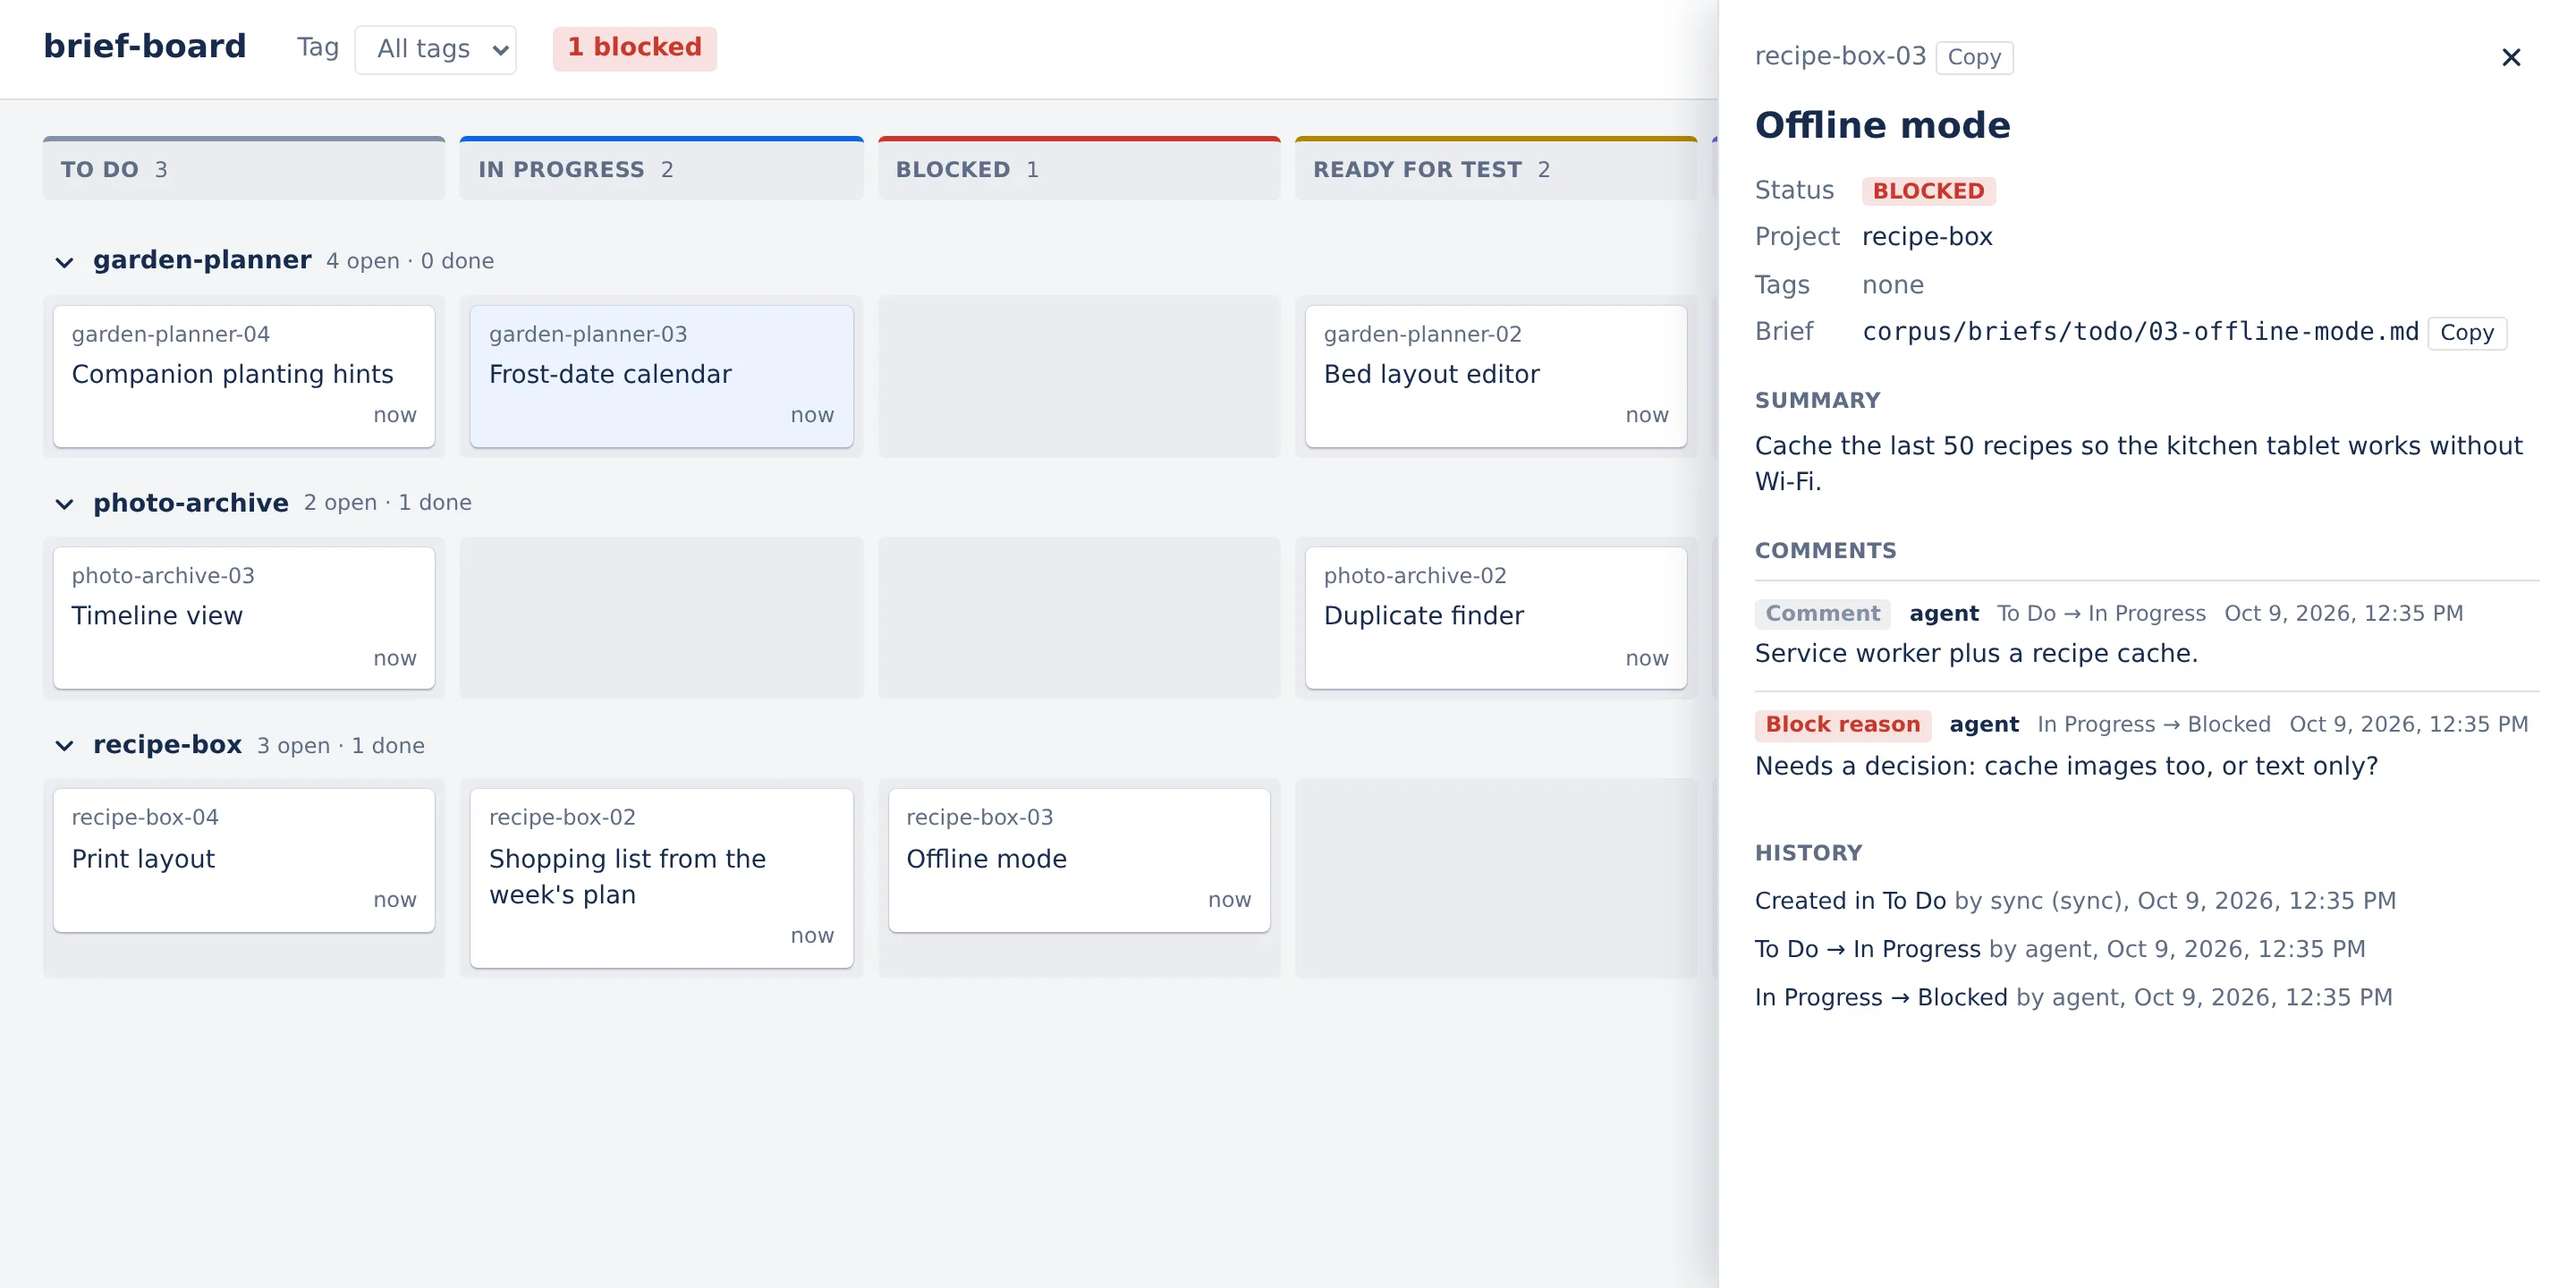
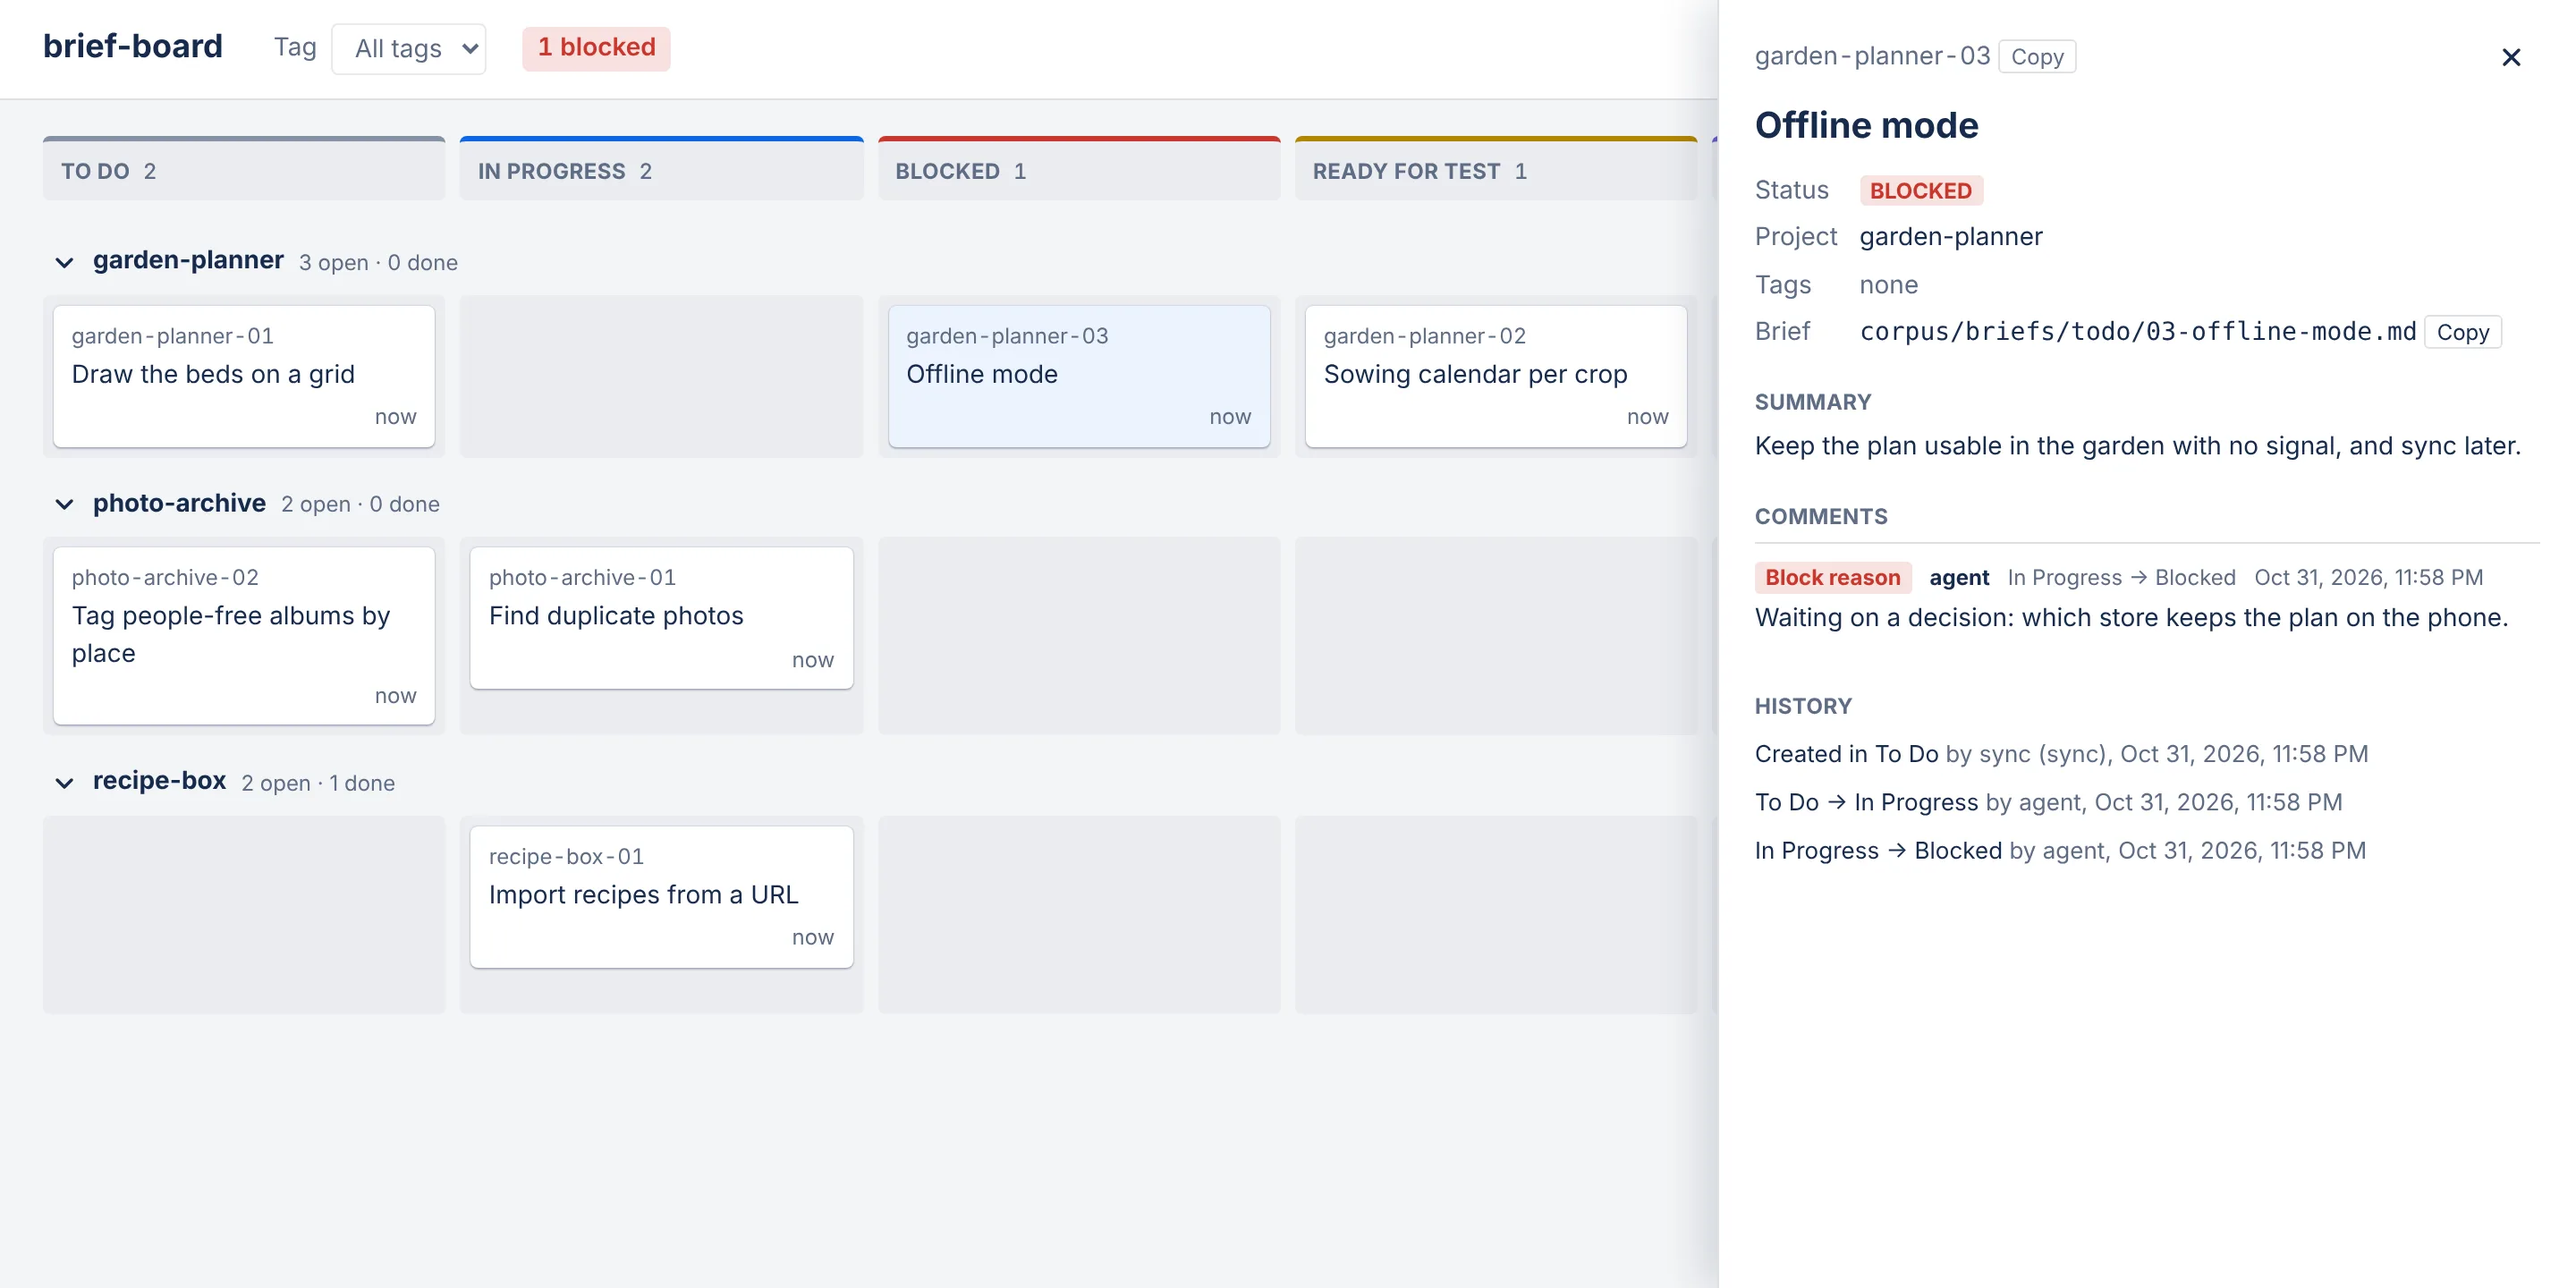
docs: retake the board and ticket-detail images after the Base UI move
Claude-Session: https://claude.ai/code/session_01RnCo6HQvWHip2MdUz77hcT

diff --git a/docs/images/shots.md b/docs/images/shots.md
@@ -4,8 +4,8 @@ How each image was made, so the next refresh is a re-run. Re-take an image when 
 
 | File | Shows | How to reach that state | Viewport | Data | Taken |
 |---|---|---|---|---|---|
-| board.webp | The board with three lanes and tickets in every column | see "Demo data" below, then open the board | 1440×720 @2x | made-up projects | 2026-10-09 |
-| ticket-detail.webp | Detail panel of a blocked ticket | same, then click "Offline mode" | 1440×720 @2x | made-up projects | 2026-10-09 |
+| board.webp | The board with three lanes and tickets in every column | see "Demo data" below, then open the board | 1440×720 @2x | made-up projects | 2026-10-31 |
+| ticket-detail.webp | Detail panel of a blocked ticket | same, then click "Offline mode" | 1440×720 @2x | made-up projects | 2026-10-31 |
 
 ## Demo data
 
@@ -15,4 +15,4 @@ The real board lists the owner's actual briefs, so the screenshots use a throwaw
 2. Make a temporary projects folder with three made-up projects (`recipe-box`, `garden-planner`, `photo-archive`), each with a few `corpus/briefs/todo/NN-slug.md` files holding a `# Task NN: Title` line and a `## Context` paragraph.
 3. Run `BRIEF_BOARD_URL=http://127.0.0.1:8807 BRIEF_BOARD_PROJECTS_DIR=<that folder> brief-board sync`, then `start`/`move` a few tickets so every column has one, including one `blocked` with a reason.
 
-Capture: `agent-browser set viewport 1440 720 2`, screenshot, then `ffmpeg -i shot.png -c:v libwebp -quality 82 shot.webp`.
+Capture: on 2026-10-31, Playwright with Chrome at 1440×720 @2x (earlier, `agent-browser set viewport 1440 720 2`), screenshot, then `ffmpeg -i shot.png -c:v libwebp -quality 82 shot.webp`. That run's statuses: one ticket each in Blocked, Ready for test, Ready for deploy and Done, two in In Progress, the rest in To Do.

diff --git a/corpus/log.md b/corpus/log.md
@@ -131,3 +131,7 @@ The detail panel is a non-modal Base UI `Dialog` and the lanes are
 closes. The decision is in [decisions.md](wiki/decisions.md); details are in
 [the brief](briefs/done/09-base-ui-widgets.md). brief-board is down (since
 2026-10-13), so it isn't on the board.
+
+## [2026-10-31] maintenance | README images retaken after brief 09's Base UI move
+
+A README refresh pass with the readme-docs standard. Brief 09 (2026-10-23) put Base UI under the detail panel and the lanes, after the images were taken on 2026-10-09, so `board.webp` and `ticket-detail.webp` were taken again on a throwaway board (port 8807, a temporary database, three made-up projects synced and moved with the CLI) as `docs/images/shots.md` describes. The README is current. Checked: `npm install`, `npm run build` and `npm start`.
